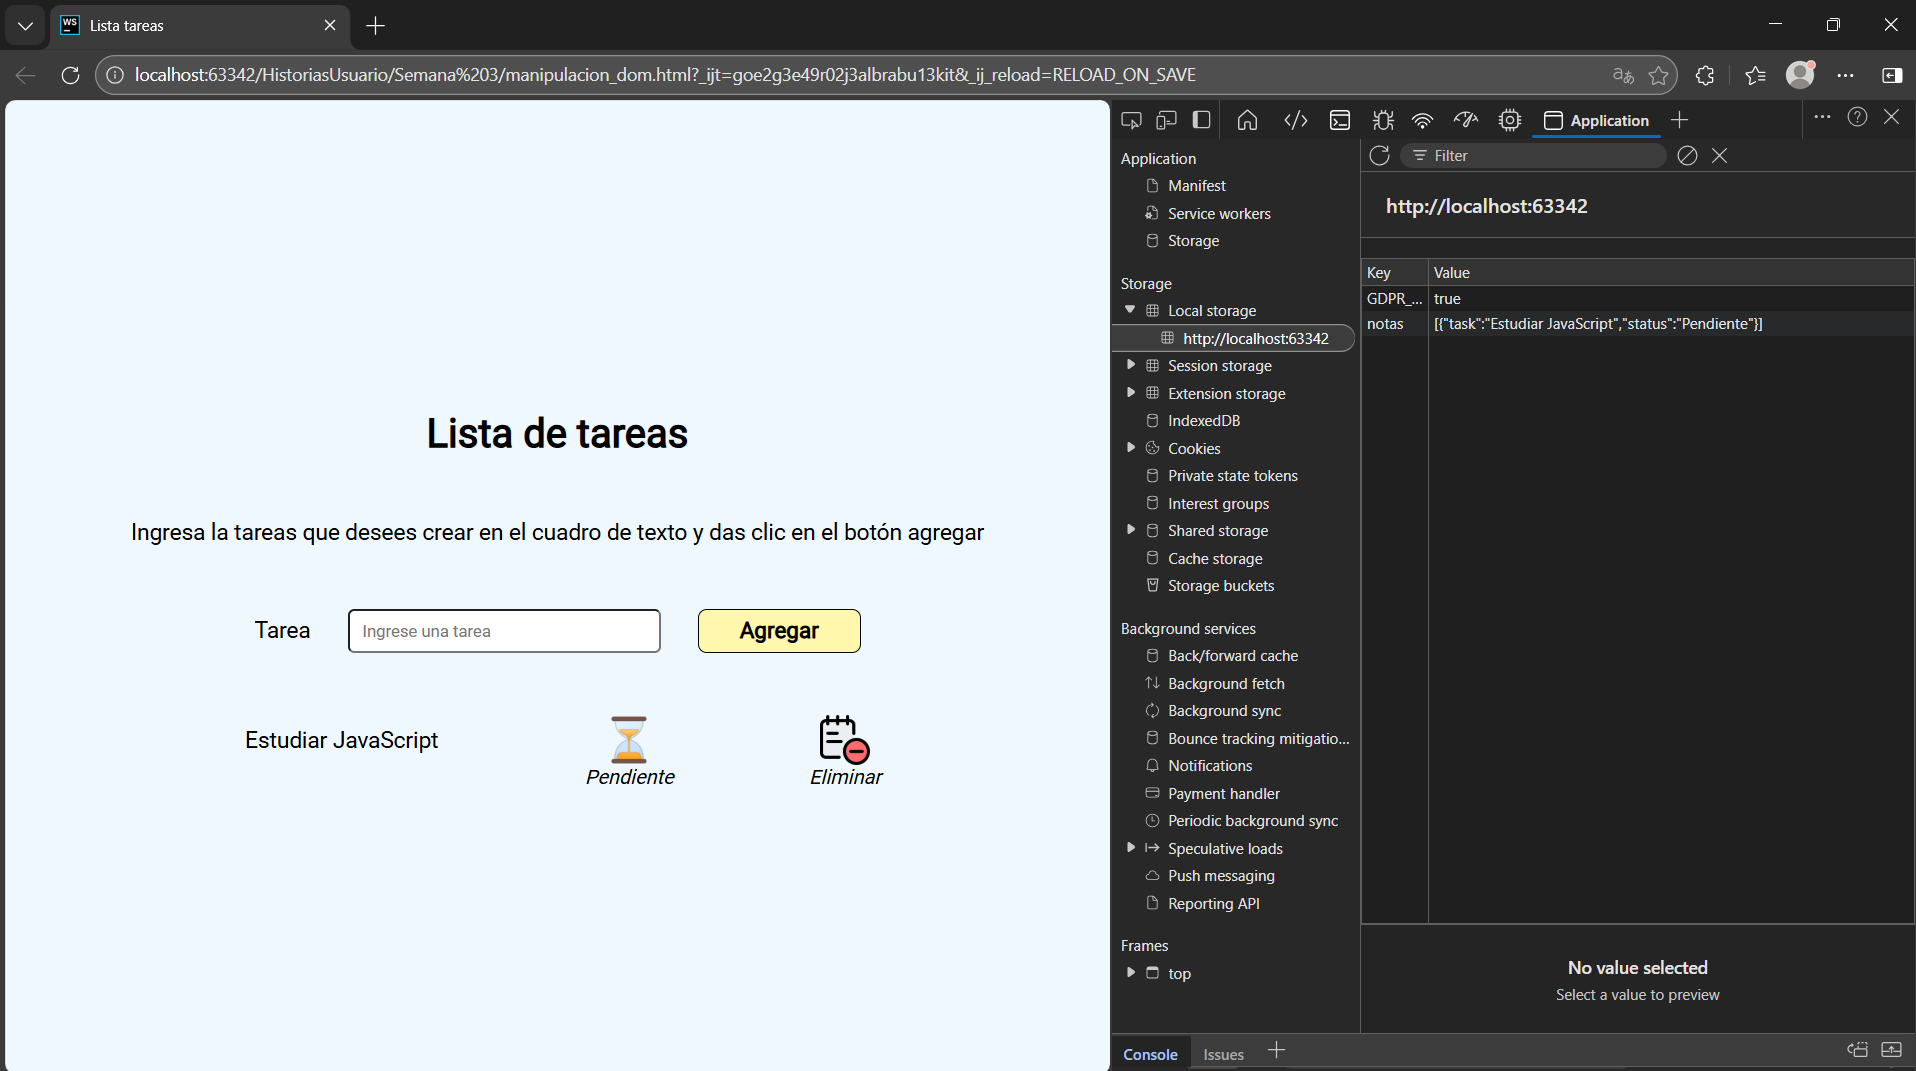
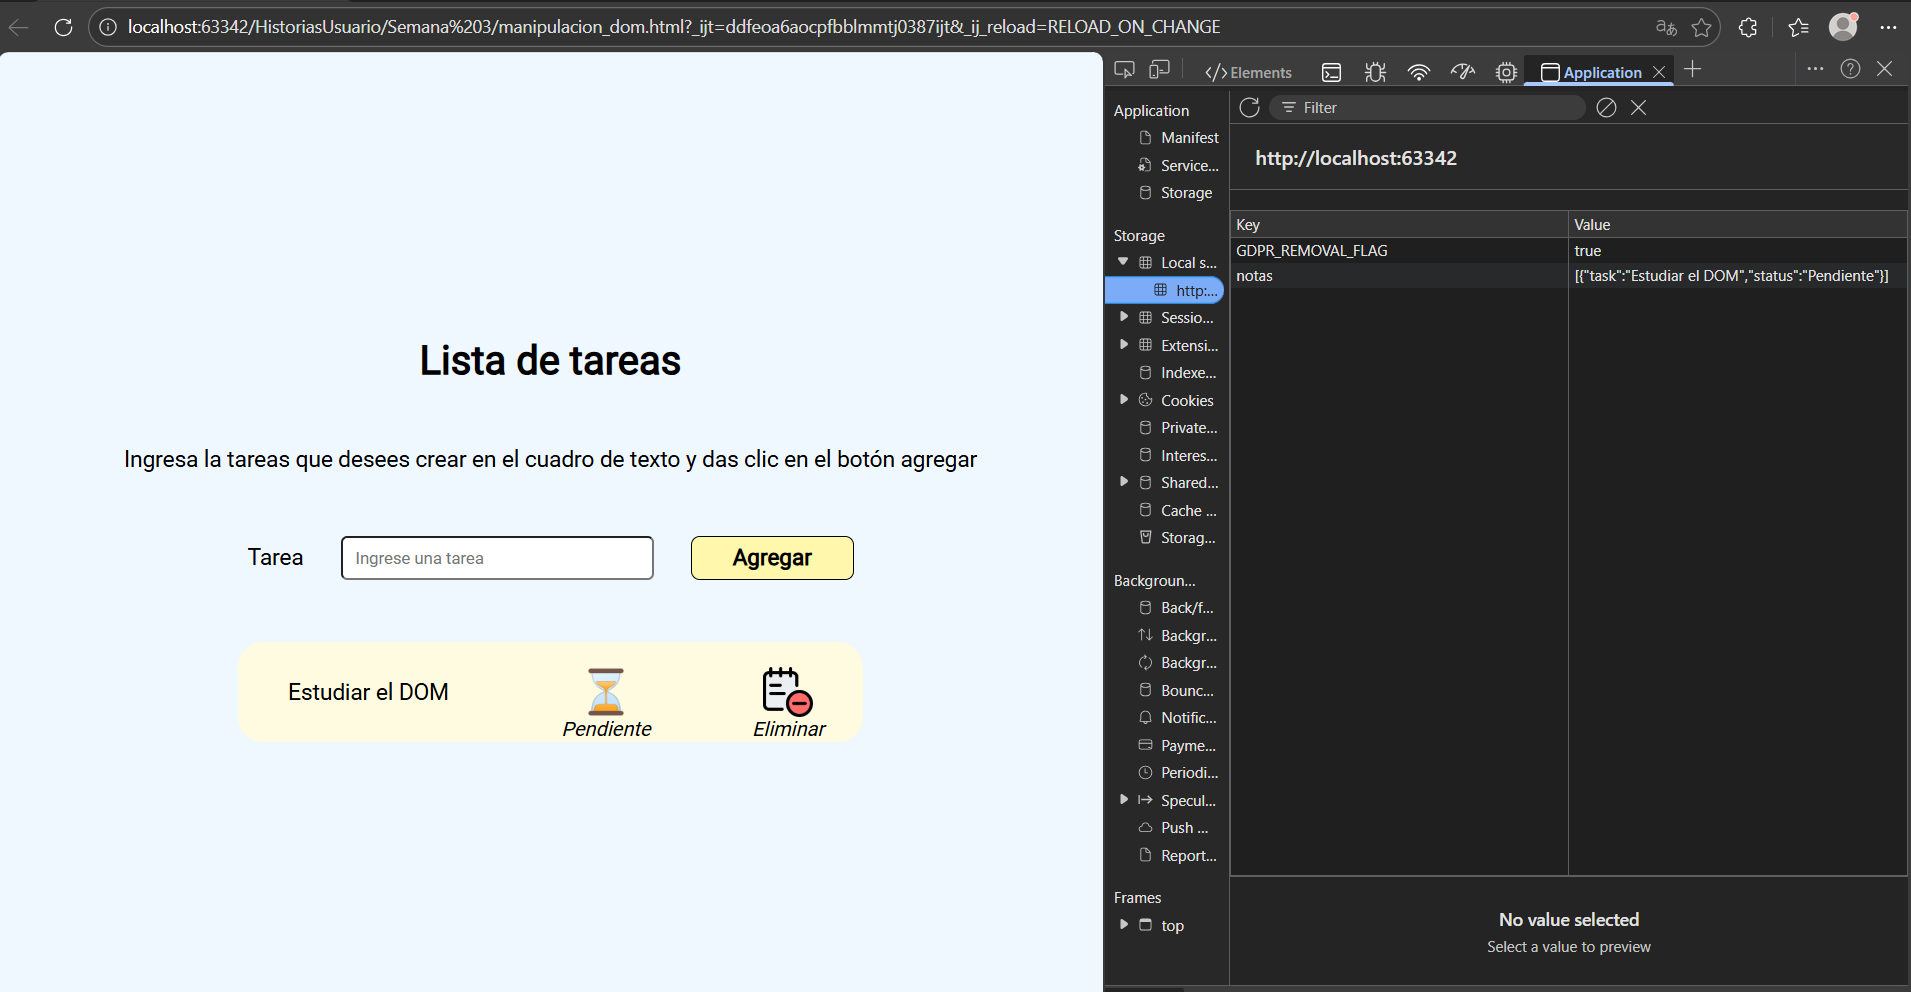
semana 3 y 4

diff --git a/Semana 4/public/js/app.js b/Semana 4/public/js/app.js
@@ -9,8 +9,6 @@ const table= document.querySelector(".tbody-data")
 const btnUpdate = document.getElementById("btn-update")
 const btnSubmit = document.getElementById("btn-submit")
 const btnAPI= document.getElementById("btn-api")
-const btnReset = document.getElementById("btn-reset")
-
 
 // Handle new product creation via form submission
 form.addEventListener("submit", async (e) => {
@@ -18,9 +16,11 @@ form.addEventListener("submit", async (e) => {
 
     let formData = new FormData(form)
     let data = Object.fromEntries(formData)
+    
+    let confirmed = confirm("¿Desea crear el producto?")
 
     // Basic validation to ensure required fields are not empty
-    if (!(data.producto === "") && !(data.cantidad === "") && !(data.precio === "") && !(data.descripcion === "")) {
+    if (!(data.producto === "") && !(data.cantidad === "") && !(data.precio === "") && !(data.descripcion === "") && confirmed) {
 
         // Generate a random ID and persist the new product to API and Local Storage
         let id = Math.floor(Math.random() * 1000);
@@ -28,16 +28,18 @@ form.addEventListener("submit", async (e) => {
         saveStorage({id, ...data})
 
         // Refresh UI table
-        table.innerHTML = ""
-        await createElement()
-
         form.reset()
+        
+        alert("¡Se ha creado con éxito el producto!")
 
     }
 
     else {
         alert("Ningún campo puede estar vacio")
     }
+
+    table.innerHTML = ""
+    await createElement()
 
 })
 
@@ -47,9 +49,10 @@ window.addEventListener("load", () => {
     loadStorage()
 })
 
-// Force application reload on reset click
-btnReset.addEventListener("click", () => {
-    location.reload()
+// Sync UI with API data by reloading
+btnAPI.addEventListener("click", () => {
+    createElement()
+    loadStorage()
 })
 
 // Delegation for Edit and Delete actions within the products table
@@ -84,10 +87,18 @@ table.addEventListener("click", async (e) => {
 
         // Delete the product
         let response= await deleteProduct(idToDelete.textContent)
-        if (response) {
+        
+        let confirmed = confirm("¿Desea eliminar el producto?")
+        
+        if (response && confirmed) {
 
             deleteStorage(idToDelete.textContent)
-            tableRow.remove()
+
+            table.innerHTML = ""
+            await createElement()
+            
+            alert("¡Se ha eliminado con éxito el producto!")
+
         }
 
     }
@@ -105,30 +116,33 @@ btnUpdate.addEventListener("click", async () => {
 
         objectToUpdate[input] = dataToUpdate[input].value
     }
-
+    
     // Sync updates with external API and storage
-    await updateProduct(objectToUpdate["id"], objectToUpdate["producto"], objectToUpdate["cantidad"], objectToUpdate["precio"], objectToUpdate["descripcion"])
-    updateStorage(objectToUpdate["id"], objectToUpdate)
+    if (confirm(`¿Desea actualizar el producto?`)) {
+        
+        await updateProduct(objectToUpdate["id"], objectToUpdate["producto"], objectToUpdate["cantidad"], objectToUpdate["precio"], objectToUpdate["descripcion"])
+        updateStorage(objectToUpdate["id"], objectToUpdate)
 
-    // Refresh table and reset form state
-    table.innerHTML = ""
-    await createElement()
+        // Refresh table and reset form state
+        table.innerHTML = ""
+        await createElement()
 
-    form.reset()
 
-    // Restore buttons to a default 'Save' state
-    btnUpdate.disabled = true;
-    btnUpdate.classList.replace("btn", "btn-disable")
+        alert("¡Se ha actualizado con éxito el producto!")
 
-    btnSubmit.disabled = false;
-    btnSubmit.classList.replace("btn-disable", "btn")
+        form.reset()
 
+        // Restore buttons to a default 'Save' state
+        btnUpdate.disabled = true;
+        btnUpdate.classList.replace("btn", "btn-disable")
+
+        btnSubmit.disabled = false;
+        btnSubmit.classList.replace("btn-disable", "btn")
+        
+    }
+    
 })
 
-// Sync UI with API data by reloading
-btnAPI.addEventListener("click", () => {
-    location.reload()
-})
 
 
 

diff --git a/Semana 3/src/script.js b/Semana 3/src/script.js
@@ -73,7 +73,8 @@ taskForm.addEventListener("submit", function (event) {
 let CreateTask = function (obj) {
 
     let note = document.createElement("li")
-    note.className = "note"
+
+    note.classList.add("note", (obj.status === "Pendiente") ? "note-uncompleted" : "note-completed" )
     let textTask = document.createElement("p")
     textTask.textContent = obj.task
 
@@ -81,6 +82,7 @@ let CreateTask = function (obj) {
     let statusTask = document.createElement("div")
     let statusTaskImg = document.createElement("img")
     let statusTaskText = document.createElement("i")
+
 
     statusTask.classList.add("icons", (obj.status === "Pendiente") ? "uncompleted-icon" : "completed-icon" )
     statusTaskText.textContent = obj.status
@@ -135,6 +137,7 @@ let changeStatusTask = function (event) {
 
         if (statusTask.classList.contains("uncompleted-icon")) {
             // Change to Completed
+            taskText.classList.replace("note-uncompleted", "note-completed")
             statusTask.classList.replace("uncompleted-icon", "completed-icon")
             statusTask.children[1].textContent = "Completada"
             changeStatusLocalStorage(taskText.firstElementChild.textContent,  statusTask.children[1].textContent)
@@ -142,6 +145,7 @@ let changeStatusTask = function (event) {
 
         } else {
             // Change back to Pending
+            taskText.classList.replace("note-completed", "note-uncompleted")
             statusTask.classList.replace("completed-icon", "uncompleted-icon")
             statusTask.children[1].textContent = "Pendiente"
             changeStatusLocalStorage( taskText.firstElementChild.textContent,  statusTask.children[1].textContent)

diff --git a/Semana 3/css/style.css b/Semana 3/css/style.css
@@ -9,20 +9,23 @@
 
 p{
     font-size: 18px;
+    width: 250px;
 }
 
 /* Container Styles*/
 
-.container{
+.container, .body{
     display: flex;
     flex-direction: column;
     align-items: center;
     justify-content: center;
     gap: 50px;
-    background-color: aliceblue;
+    padding: 50px;
 
-    width: 100vw;
+    width: 100%;
     height: 100vh;
+    background-color: aliceblue;
+    overflow-y: auto;
 
 }
 
@@ -34,13 +37,32 @@ p{
     flex-wrap: wrap;
     align-items: center;
     gap: 40px;
-    width: 500px;
+    width:800px
 
 }
 
 .notes-list{
-    flex-direction: column;
+    height: auto;
+    max-height: 500px;
+    overflow-y: auto;
+
 }
+
+.note{
+    width: 99%;
+    padding: 20px 40px;
+    border-radius: 20px;
+}
+
+
+.note-completed{
+    background-color: #dbffc0;
+}
+
+.note-uncompleted{
+    background-color: #fffbe0;
+}
+
 
 .icons{
     flex-direction: row;

diff --git a/Semana 4/public/css/style.css b/Semana 4/public/css/style.css
@@ -19,7 +19,7 @@
 }
 
 .products{
-    width: 60%;
+    width: 70%;
     height: 50%;
     gap: 60px;
     border-radius: 15px;
@@ -30,7 +30,7 @@
     display: flex;
     flex-direction: row;
     gap: 100px;
-    width: 90%;
+    width: 100%;
     height: 60%;
 }
 
@@ -135,7 +135,7 @@
     border: 1px solid black;
     border-radius: 5px;
 }
-input:focus{
+input:focus, .textarea:focus{
     background-color: #cce4ff;
 }
 

diff --git a/Semana 3/manipulacion_dom.html b/Semana 3/manipulacion_dom.html
@@ -12,7 +12,7 @@
 
         <h1>Lista de tareas</h1>
 
-        <p>Ingresa la tareas que desees crear en el cuadro de texto y das clic en el botón agregar</p>
+        <h4>Ingresa la tareas que desees crear en el cuadro de texto y das clic en el botón agregar</h4>
 
         <!-- Tasks Form -->
         <form class="task-form" id="task-form">

diff --git a/Semana 4/public/js/utils/create-element.js b/Semana 4/public/js/utils/create-element.js
@@ -52,7 +52,6 @@ export async function createElement() {
                 fragmentTableRow.append(td)
             }
 
-
             row.append(fragmentTableRow)
             fragmentTableBody.append(row)
 

diff --git a/Semana 4/public/index.html b/Semana 4/public/index.html
@@ -2,7 +2,7 @@
 <html lang="es">
 <head>
     <meta charset="UTF-8">
-    <title>Usuarios</title>
+    <title>Productos</title>
     <link rel="stylesheet" href="css/style.css">
 </head>
 <body>
